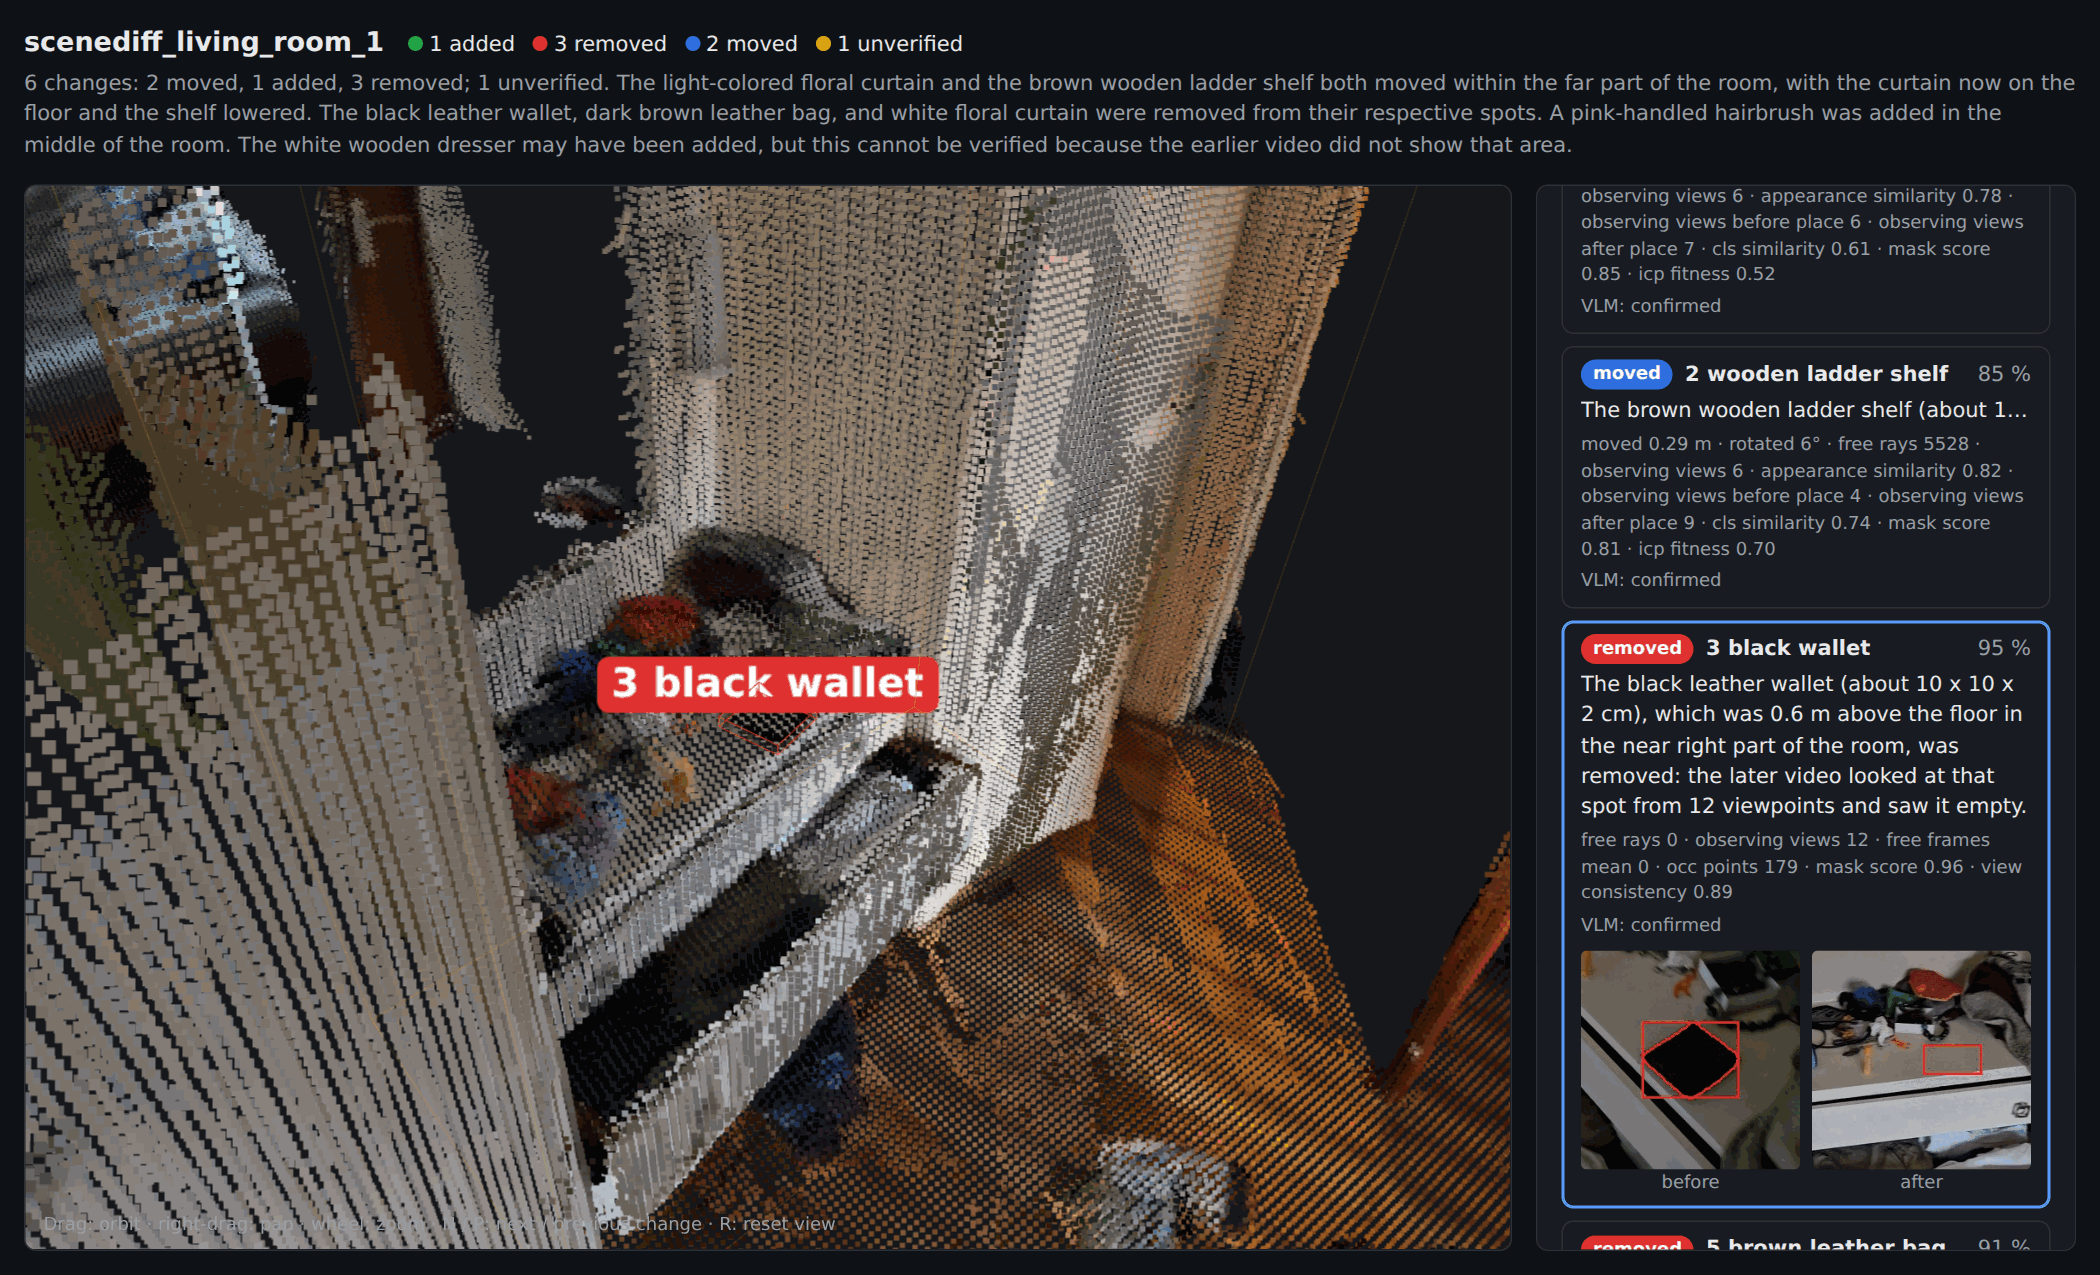
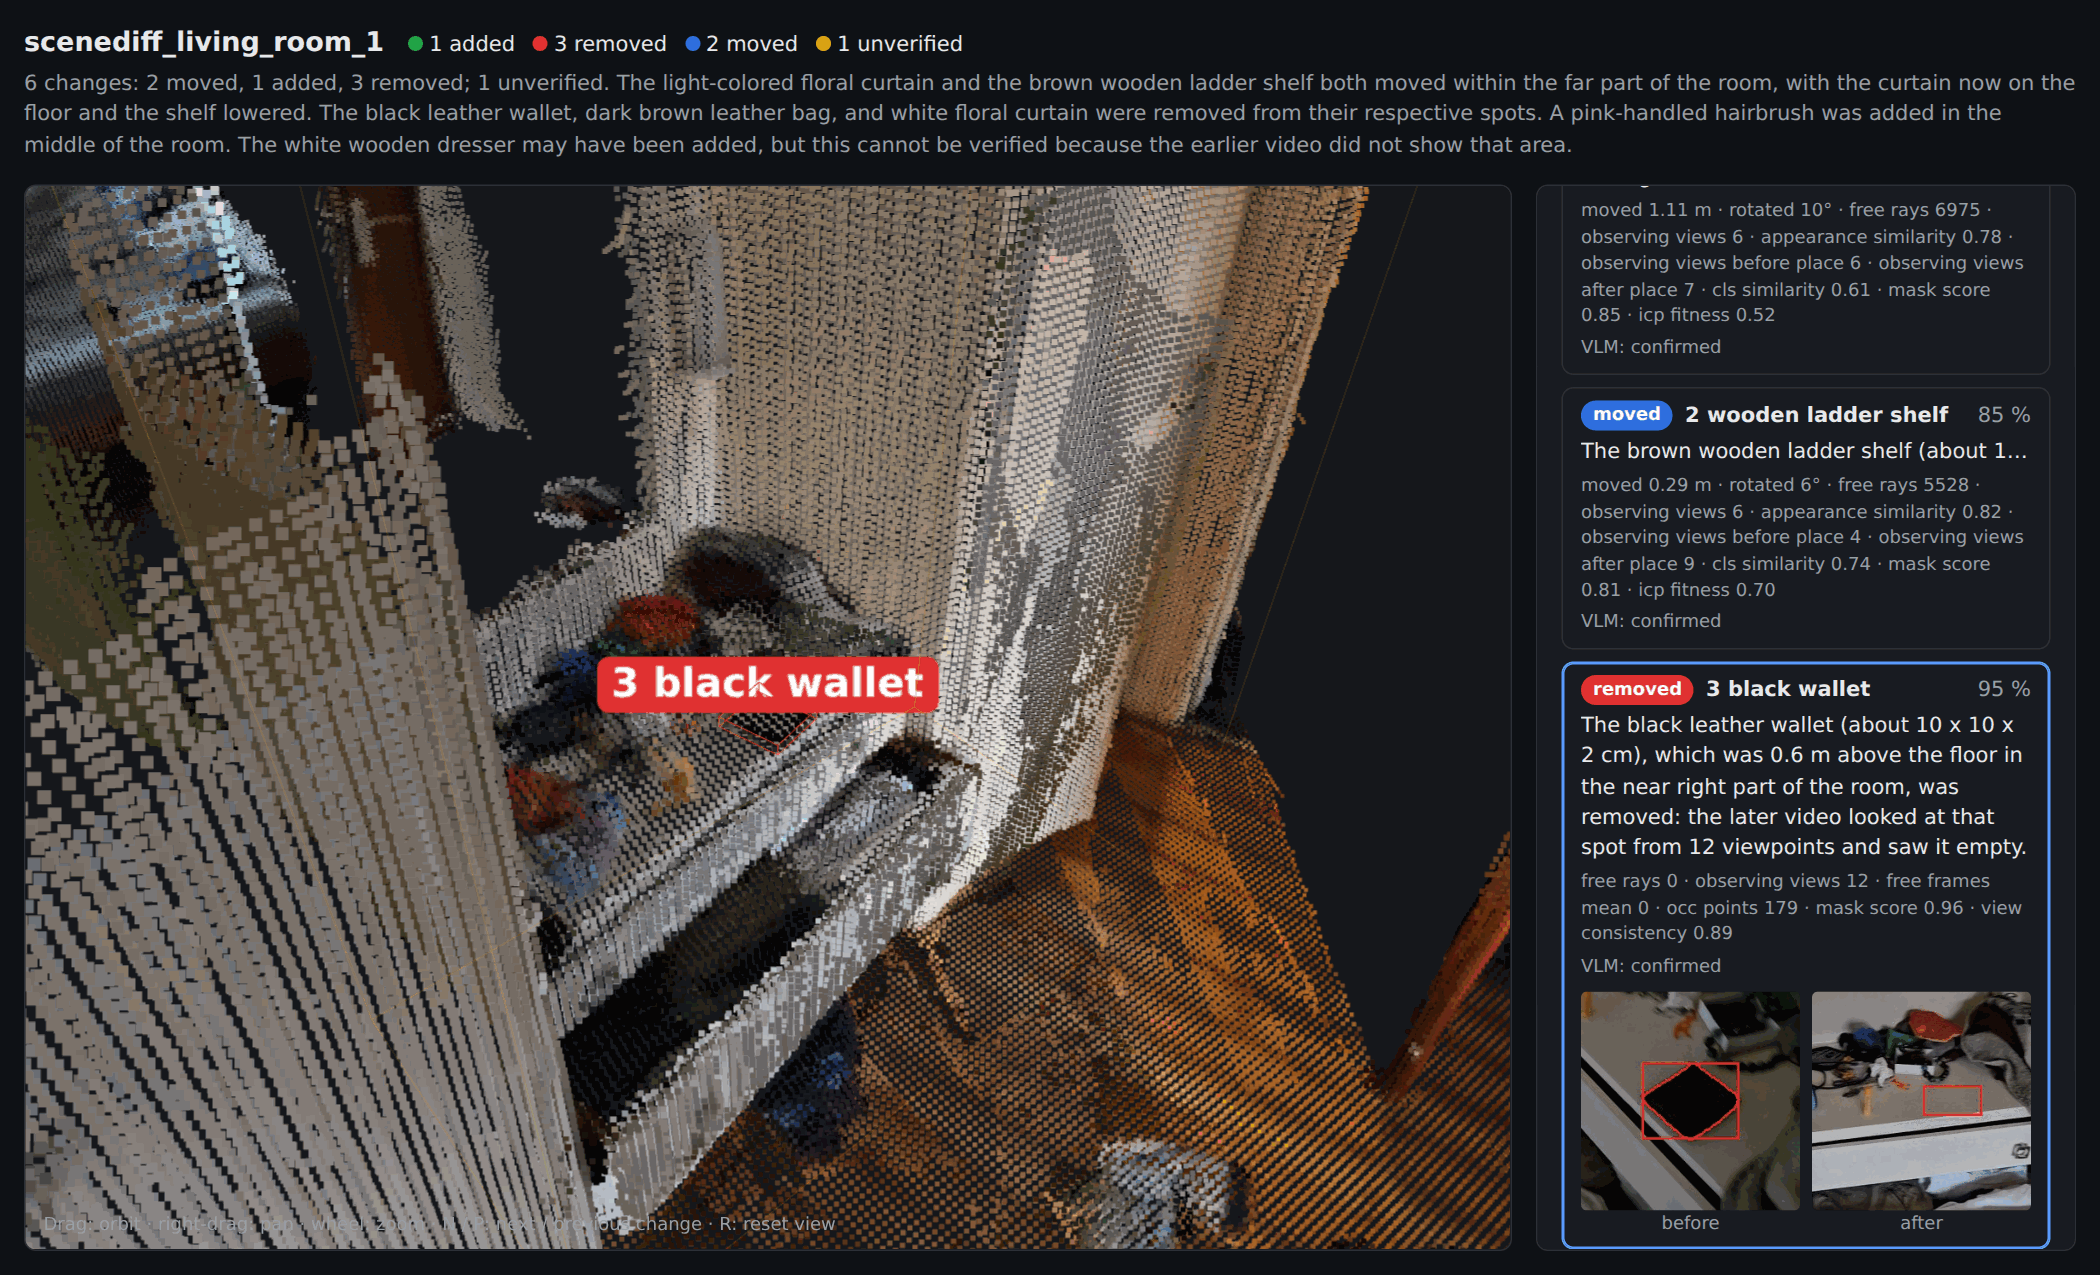
Viewer: dim unverified regions, label them only when selected, frame confirmed changes; README byline
Unverified regions are often a patch of floor or table top that only one video observed,
named after whatever object the crop contains (tabletop_1: "wooden stool" for a 3.4 m
strip of floor). Their boxes are now drawn at 55 % opacity without a label until the
entry is selected, they no longer stack the other labels, and the home view fits the
confirmed changes only. Hero screenshot re-shot; author line in the README.

Claude-Session: https://claude.ai/code/session_01RXjrwdCur64Qa2H3dxtgvS

Changed region(s): [[0.7429, 0.1529, 0.9905, 0.9788]]

diff --git a/docs/viewer/app.js b/docs/viewer/app.js
@@ -12,6 +12,10 @@ import { PLYLoader } from 'three/addons/loaders/PLYLoader.js';
 
 const TYPES = ['added', 'removed', 'moved', 'unverified'];
 const TYPE_COLORS = { added: '#22a447', removed: '#e03131', moved: '#2f6fdf', unverified: '#e6b400' };
+// Unverified regions are often large patches of floor or table top that only one video
+// observed: their boxes are drawn dimmed, their labels appear only when selected, and the
+// home view does not zoom out for them.
+const UNVERIFIED_OPACITY = 0.55;
 const TINT_COLORS = { before: '#3b82f6', after: '#f97316' };
 const BACKGROUNDS = { dark: '#15171c', light: '#f3f4f6' };
 const EVIDENCE_LABELS = {
@@ -179,8 +183,8 @@ function homeView() {
   let distance = fitDistance(corners, target, offset);
   if (state.sample.length) distance = fitDistanceToPoints(state.sample, target, offset, distance);
   const boxCorners = [];
-  for (const item of state.items) { // every change box stays in frame
-    if (!item.bounds) continue;
+  for (const item of state.items) { // every confirmed change box stays in frame
+    if (!item.bounds || item.type === 'unverified') continue;
     for (const x of [item.bounds.min.x, item.bounds.max.x]) {
       for (const y of [item.bounds.min.y, item.bounds.max.y]) {
         for (const z of [item.bounds.min.z, item.bounds.max.z]) boxCorners.push(new THREE.Vector3(x, y, z));
@@ -267,7 +271,7 @@ function spreadLabels() {
   const spacing = 1.1; // m, floor-plane distance below which two labels are stacked
   const step = 0.35; // m, vertical step between stacked labels
   const placed = [];
-  const items = state.items.filter((item) => item.label)
+  const items = state.items.filter((item) => item.label && item.type !== 'unverified')
     .sort((a, b) => a.label.position.y - b.label.position.y);
   for (const item of items) {
     const anchor = item.label.position.clone();
@@ -543,9 +547,18 @@ function updateFilters() {
   for (const item of state.items) {
     const on = state.filters[item.type];
     item.entry.hidden = !on;
-    if (item.group) item.group.visible = item.label.visible = on;
+    if (item.group) item.group.visible = on;
   }
+  updateLabels();
   if (state.selected >= 0 && state.items[state.selected].entry.hidden) select(-1);
+}
+
+// A label is shown for every visible confirmed change and for the selected change.
+function updateLabels() {
+  state.items.forEach((item, i) => {
+    if (!item.label) return;
+    item.label.visible = !item.entry.hidden && (item.type !== 'unverified' || i === state.selected);
+  });
 }
 
 // -------------------------------------------------------------- selection
@@ -554,10 +567,12 @@ function select(index) {
   state.selected = index;
   state.items.forEach((item, i) => {
     item.entry.classList.toggle('selected', i === index);
-    const opacity = index < 0 || i === index ? 1 : DIMMED;
+    const base = item.type === 'unverified' ? UNVERIFIED_OPACITY : 1;
+    const opacity = i === index ? 1 : index < 0 ? base : DIMMED;
     for (const material of item.materials) material.opacity = opacity;
     if (item.label) item.label.scale.copy(item.label.userData.baseScale).multiplyScalar(i === index ? 1.3 : 1);
   });
+  updateLabels();
   if (index < 0) return;
   const item = state.items[index];
   showCrops(item);

diff --git a/viewer/app.js b/viewer/app.js
@@ -12,6 +12,10 @@ import { PLYLoader } from 'three/addons/loaders/PLYLoader.js';
 
 const TYPES = ['added', 'removed', 'moved', 'unverified'];
 const TYPE_COLORS = { added: '#22a447', removed: '#e03131', moved: '#2f6fdf', unverified: '#e6b400' };
+// Unverified regions are often large patches of floor or table top that only one video
+// observed: their boxes are drawn dimmed, their labels appear only when selected, and the
+// home view does not zoom out for them.
+const UNVERIFIED_OPACITY = 0.55;
 const TINT_COLORS = { before: '#3b82f6', after: '#f97316' };
 const BACKGROUNDS = { dark: '#15171c', light: '#f3f4f6' };
 const EVIDENCE_LABELS = {
@@ -179,8 +183,8 @@ function homeView() {
   let distance = fitDistance(corners, target, offset);
   if (state.sample.length) distance = fitDistanceToPoints(state.sample, target, offset, distance);
   const boxCorners = [];
-  for (const item of state.items) { // every change box stays in frame
-    if (!item.bounds) continue;
+  for (const item of state.items) { // every confirmed change box stays in frame
+    if (!item.bounds || item.type === 'unverified') continue;
     for (const x of [item.bounds.min.x, item.bounds.max.x]) {
       for (const y of [item.bounds.min.y, item.bounds.max.y]) {
         for (const z of [item.bounds.min.z, item.bounds.max.z]) boxCorners.push(new THREE.Vector3(x, y, z));
@@ -267,7 +271,7 @@ function spreadLabels() {
   const spacing = 1.1; // m, floor-plane distance below which two labels are stacked
   const step = 0.35; // m, vertical step between stacked labels
   const placed = [];
-  const items = state.items.filter((item) => item.label)
+  const items = state.items.filter((item) => item.label && item.type !== 'unverified')
     .sort((a, b) => a.label.position.y - b.label.position.y);
   for (const item of items) {
     const anchor = item.label.position.clone();
@@ -543,9 +547,18 @@ function updateFilters() {
   for (const item of state.items) {
     const on = state.filters[item.type];
     item.entry.hidden = !on;
-    if (item.group) item.group.visible = item.label.visible = on;
+    if (item.group) item.group.visible = on;
   }
+  updateLabels();
   if (state.selected >= 0 && state.items[state.selected].entry.hidden) select(-1);
+}
+
+// A label is shown for every visible confirmed change and for the selected change.
+function updateLabels() {
+  state.items.forEach((item, i) => {
+    if (!item.label) return;
+    item.label.visible = !item.entry.hidden && (item.type !== 'unverified' || i === state.selected);
+  });
 }
 
 // -------------------------------------------------------------- selection
@@ -554,10 +567,12 @@ function select(index) {
   state.selected = index;
   state.items.forEach((item, i) => {
     item.entry.classList.toggle('selected', i === index);
-    const opacity = index < 0 || i === index ? 1 : DIMMED;
+    const base = item.type === 'unverified' ? UNVERIFIED_OPACITY : 1;
+    const opacity = i === index ? 1 : index < 0 ? base : DIMMED;
     for (const material of item.materials) material.opacity = opacity;
     if (item.label) item.label.scale.copy(item.label.userData.baseScale).multiplyScalar(i === index ? 1.3 : 1);
   });
+  updateLabels();
   if (index < 0) return;
   const item = state.items[index];
   showCrops(item);

diff --git a/README.md b/README.md
@@ -8,6 +8,9 @@ explicit geometric, appearance and visual-language evidence, and changes in spac
 other video never observed are reported as **unverified** instead of being guessed.
 See [docs/PLAN.md](docs/PLAN.md) for the design.
 
+*By Jingqi Jiang (Imperial College London), October 2026: a five-day take-home challenge,
+"What changed in the room?".*
+
 ![The web viewer on SceneDiff pair living_room_1](docs/img/viewer/living_room_1_viewer.png)
 
 *The web viewer on SceneDiff pair living_room_1: both point clouds in one frame, a box per change (red removed, green added, blue moved with an arrow from the old place, yellow unverified) and the change list with its evidence and crops. Live: <https://jjq7.github.io/RoomDiff/viewer/?scene=scenes/scenediff_living_room_1>.*
@@ -186,7 +189,9 @@ python -m roomdiff.cli viewer --out outputs/scene1 [--target-points 400000]
 cd outputs/scene1/viewer && python -m http.server 8000   # open http://localhost:8000/
 ```
 
-Keys: N / P next / previous change, R reset view. `changes.json` is taken from
+Keys: N / P next / previous change, R reset view. Unverified regions (often a patch of
+floor or table top that only one video observed) are drawn dimmed and get their label only
+when selected; the home view frames the confirmed changes. `changes.json` is taken from
 `<out>/changes.json`, or generated from `<out>/visibility/candidates.json` (geometry-only
 regions) when the change stage has not run yet.
 
